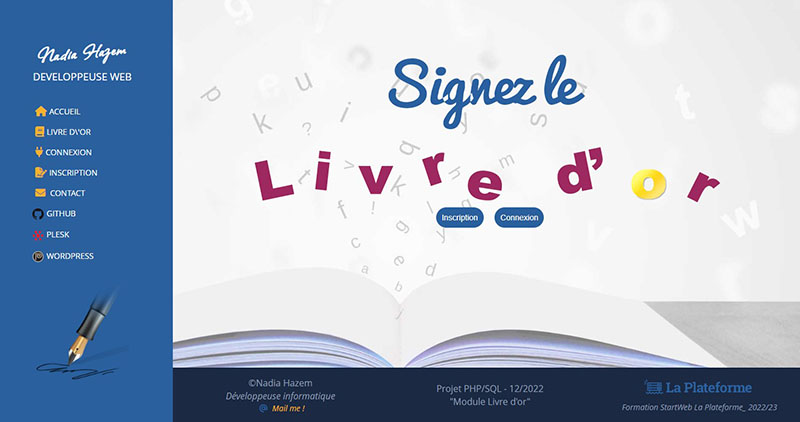
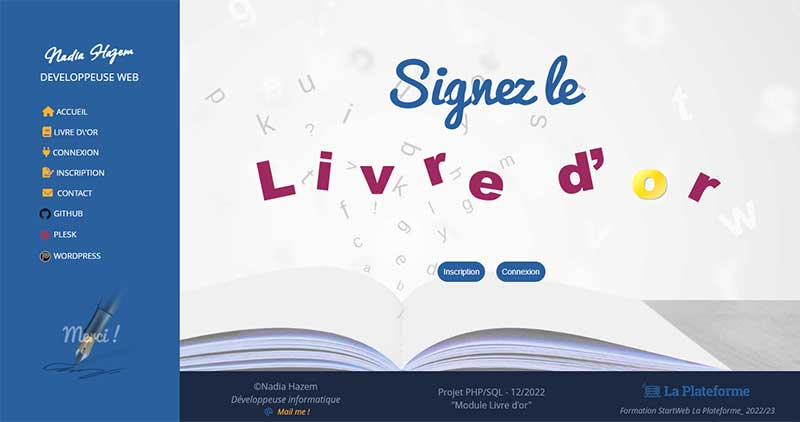
rectification screenshot.jpg

diff --git a/css/style.css b/css/style.css
@@ -166,6 +166,7 @@ button:hover {
         position: relative;
     }
 }
+.btns {margin-top: 6rem; }
 /*==========*/
 /*** FLEX ***/
 /*==========*/

diff --git a/index.php b/index.php
@@ -6,7 +6,7 @@
         <div class="row center opac">
             <img class="livredor center" src="img/livredor.png" alt="accueil">
         </div>
-        <div class="row center wrap">
+        <div class="row btns center wrap">
             <a href="inscription.php"><button class="animbottom">Inscription</button></a>          
             <a href="connexion.php"><button class="animbottom">Connexion</button></a>
         </div>
